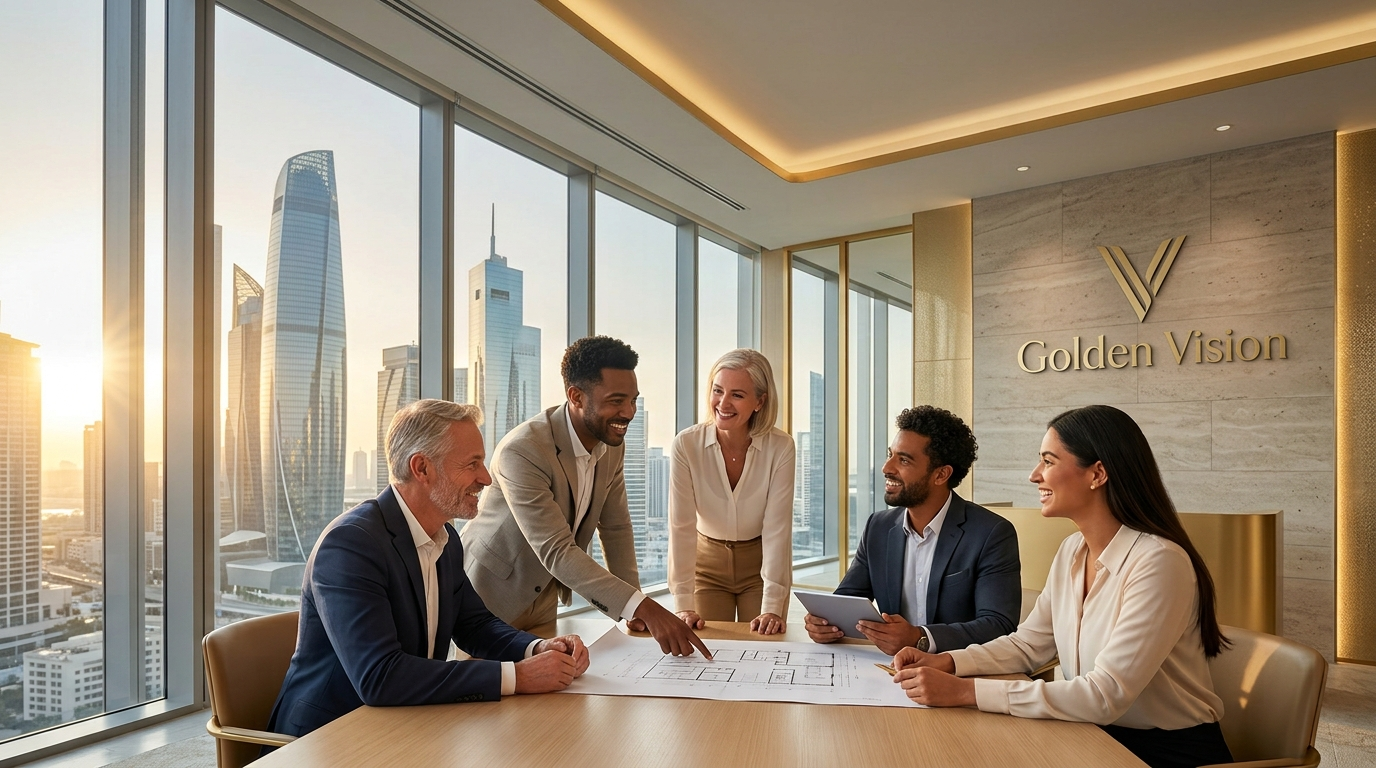
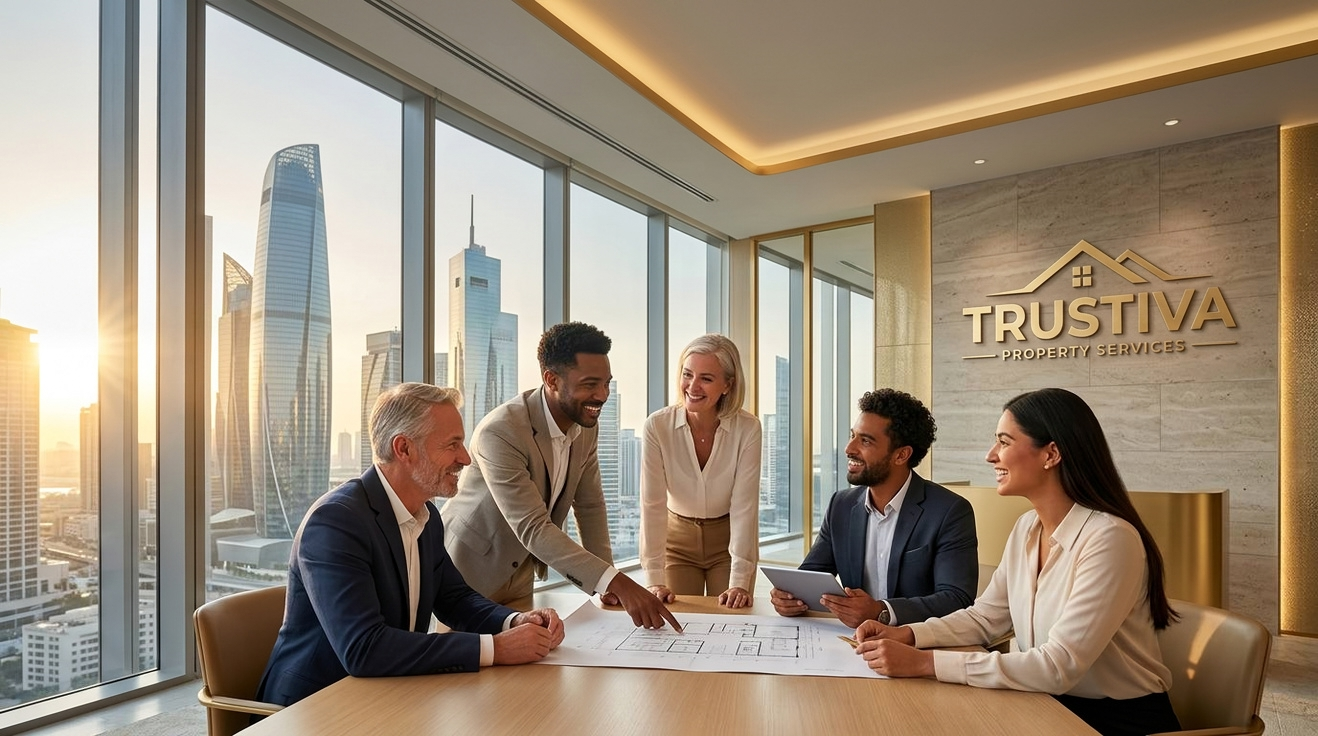
Update Trustiva office location and replace Golden Vision images

Changed region(s): [[0.7155, 0.3125, 0.9643, 0.5]]

diff --git a/templates/public/contact.html b/templates/public/contact.html
@@ -51,7 +51,8 @@
                 <i class="icon-room"></i>
                 <h4 class="mb-2">{% trans "Location" %}:</h4>
                 <p>
-                  ICAD 3, Mussafah<br>
+                  Building 14 , M Floor - Office 4, <br>
+                  Al Rawnak Street, Al Nahyan, <br>
                   Abu Dhabi, UAE
                 </p>
               </div>
@@ -68,13 +69,14 @@
               <div class="email mt-4">
                 <i class="icon-envelope"></i>
                 <h4 class="mb-2">{% trans "Email" %}:</h4>
-                <p>info@goldenvision.com</p>
+                <p>trustivauae@gmail.com</p>
               </div>
 
               <div class="phone mt-4">
                 <i class="icon-phone"></i>
                 <h4 class="mb-2">{% trans "Call" %}:</h4>
-                <p>+971 (55) 527-2909</p>
+                <p>+971 (2) 309-6664</p>
+                <p>+971 (56) 350-8627</p>
               </div>
             </div>
           </div>
@@ -144,8 +146,9 @@
           {% trans "Visit Our Office" %}
         </h2>
 
+
         <p class="text-black-50">
-          {% blocktrans %}Conveniently located in ICAD 3, Mussafah, Abu Dhabi.
+          {% blocktrans %}Conveniently located in Building 14 , M Floor - Office 4, Al Rawnak Street, Al Nahyan - Abu Dhabi.
           We welcome clients looking for residential, commercial,
           and investment property solutions.{% endblocktrans %}
         </p>
@@ -155,7 +158,7 @@
     <div class="row">
       <div class="col-12">
         <iframe
-          src="https://maps.google.com/maps?q=ICAD%203%20Mussafah%20Abu%20Dhabi&t=&z=13&ie=UTF8&iwloc=&output=embed"
+          src="https://maps.google.com/maps?q=BLS%20International%20Services%2C%20Al%20Nahyan%2C%20Abu%20Dhabi&t=&z=17&ie=UTF8&iwloc=&output=embed"
           width="100%"
           height="450"
           style="border:0;"

diff --git a/templates/public/base.html b/templates/public/base.html
@@ -135,12 +135,12 @@
           <div class="col-lg-4">
             <div class="widget">
               <h3>{% trans "Contact" %}</h3>
-              <address>{% trans "ICAD 3, Mussafah, Abu Dhabi, UAE" %}</address>
+              <address>{% trans "Building 14 , M Floor - Office 4,<br> Al Rawnak Street, Al Nahyan,<br> Abu Dhabi, UAE" %}</address>
               <ul class="list-unstyled links">
-                <li><a href="tel://971555272909">+971(55)-527-2909</a></li>
-                <li><a href="tel://971555272909">+971(55)-527-2909</a></li>
+                <li><a href="tel://97123096664">+971(2) 309-6664</a></li>
+                <li><a href="tel://971563508627">+971(56)-350-8627</a></li>
                 <li>
-                  <a href="mailto:info@goldenvision.com">info@goldenvision.com</a>
+                  <a href="mailto:trustivauae@gmail.com">trustivauae@gmail.com</a>
                 </li>
               </ul>
             </div>

diff --git a/realestate_app/views.py b/realestate_app/views.py
@@ -856,7 +856,7 @@ def export_excel_report(request):
 
     # Title
 
-    worksheet["A1"] = "GOLDEN VISION REAL ESTATE"
+    worksheet["A1"] = "TRUSTIVA REAL ESTATE"
 
     worksheet["A1"].font = Font(
         bold=True,
@@ -1038,7 +1038,7 @@ def export_excel_report(request):
 
     response[
         "Content-Disposition"
-    ] = 'attachment; filename="Golden_Vision_Report.xlsx"'
+    ] = 'attachment; filename="Trustiva_Report.xlsx"'
 
 
     workbook.save(response)
@@ -1090,7 +1090,7 @@ def export_pdf_report(request):
 
     response[
         'Content-Disposition'
-    ] = 'attachment; filename="Golden_Vision_Report.pdf"'
+    ] = 'attachment; filename="Trustiva_Report.pdf"'
 
 
     document = SimpleDocTemplate(
@@ -1146,7 +1146,7 @@ def export_pdf_report(request):
 
     elements.append(
         Paragraph(
-            "GOLDEN VISION REAL ESTATE",
+            "TRUSTIVA REAL ESTATE",
             title_style
         )
     )
@@ -1728,7 +1728,7 @@ def download_property_package(request, id):
     ]
 
     story = [
-        Paragraph("GOLDEN VISION", title_style),
+        Paragraph("TRUSTIVA", title_style),
         Paragraph("Property Details", styles["Heading2"]),
         Spacer(1, 8),
     ]
